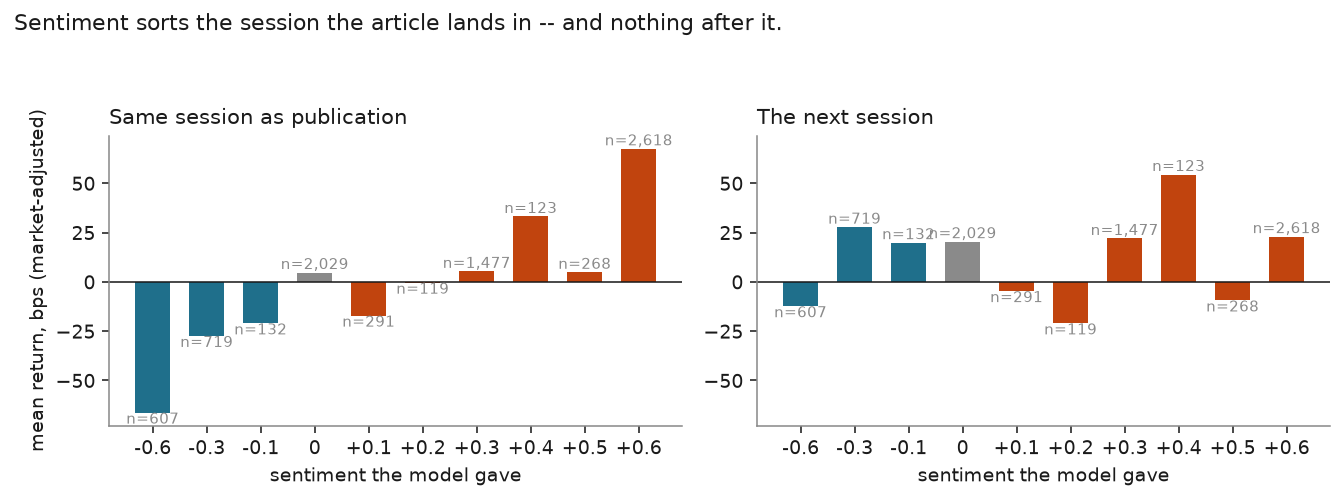
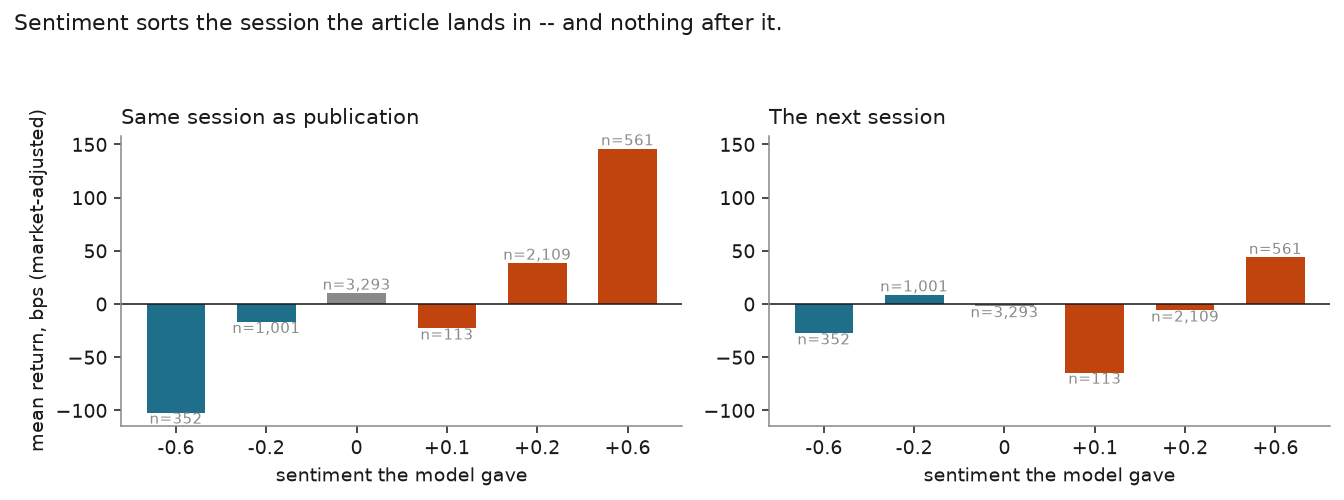
feat(scoring): event@5 pass -- both fixes landed and the magnitude signal improved 18%
87 days, 13,004 articles, 0.27% invalid, 11 transient Ollama errors, 15.4h.

Both v5 fixes worked. Sentiment came back from a collapsed scale (69.5% neutral, 4
distinct values) to a rankable one (46.3%, 6). Materiality went from effectively
two populated levels to three: none/minor/meaningful/major ran 24.9/66.7/8.3/0.1 in
v4 and 10.5/54.2/34.8/0.5 in v5.

The signal improved on every horizon, per-day rank correlation vs |market-adjusted
return|, all monotone 1.0:

  same session   0.1163 -> 0.1633   t  9.33 -> 11.00
  next session   0.0839 -> 0.0987   t  6.90 ->  8.49
  one week       0.0374 -> 0.0501   t  2.84 ->  4.52

+18% forward, and the signal now reaches a week. The free article-count baseline
moved slightly the other way (0.0383 -> 0.0354) on the same articles, days and
returns, which is the control that matters: the gain is in the model's judgement,
not the data or the harness. This retires the sec 16 worry that tuning the
distribution was optimising an unvalidated proxy -- it was not.

Also fixes cross_section, which still used the extremes-only statistic that sec 16
replaced inside magnitude(): the top and bottom buckets must appear on the same day,
and v5's sentiment paired them on 6 days of 58. It now reports the same per-day rank
correlation against the SIGNED return (a test pins that it is signed, since using
|return| would credit a config for predicting big moves as if it had predicted their
[…]

diff --git a/docs/make_figures.py b/docs/make_figures.py
@@ -96,10 +96,11 @@ def fig_anchoring(con) -> None:
 def fig_sentiment_horizons(con) -> None:
     """Sentiment reads the session it lands in; it does not predict the next one.
 
-    Uses the ``event@2`` panel because it has the widest sentiment spread of the
-    passes (22% neutral against v4's 65%), so the buckets are actually populated.
+    Uses the current ``event@5`` pass: 13,004 articles over 87 days, with the
+    seven-level sentiment scale that keeps the buckets populated (46% neutral,
+    against v4's 70% when the scale was cut to five levels).
     """
-    panel = pe.signal_panel(con, "news_scores_event_v2")
+    panel = pe.signal_panel(con, "news_scores_event_v5")
     j, _ = pe.attach_returns(con, panel)
     j = j.dropna(subset=["f0_ex", "f1_ex", "score"])
     j = j[j["score"].abs() <= 1.0]
@@ -144,7 +145,7 @@ def fig_sentiment_horizons(con) -> None:
 
 def fig_magnitude(con) -> None:
     """The one thing that does predict forward: how big the news is."""
-    panel = pe.signal_panel(con, "news_scores_event_v4")
+    panel = pe.signal_panel(con, "news_scores_event_v5")
     j, _ = pe.attach_returns(con, panel)
     j = j.dropna(subset=["f1_ex", "mat_max"])
 
@@ -183,7 +184,7 @@ def fig_magnitude(con) -> None:
     ax1.set_ylabel("|next session|, bps (market-adjusted)")
     ax1.set_title(
         "The model's judgement of how big the news is\n"
-        "rank corr 0.084, t = 6.9 over 59 trading days",
+        "rank corr 0.099, t = 8.5 over 58 trading days",
         loc="left",
     )
     for i, (v, c) in enumerate(zip(gm.values, nm.values)):
@@ -199,7 +200,7 @@ def fig_magnitude(con) -> None:
     ax2.set_xticklabels(gi.index, fontsize=9)
     ax2.set_xlabel("articles about that stock that day")
     ax2.set_title(
-        "The free baseline: just count the articles\nrank corr 0.038, t = 3.1",
+        "The free baseline: just count the articles\nrank corr 0.035, t = 2.8",
         loc="left",
     )
     for i, v in enumerate(gi.values):

diff --git a/scoring/panel_eval.py b/scoring/panel_eval.py
@@ -375,8 +375,15 @@ def cross_section(
         "n_days_rankable": int(d["date"].nunique()),
         "days_dropped_saturated": int(sizes[sizes >= min_names].shape[0] - d["date"].nunique()),
     }
+    # Same fix as magnitude(): the top-minus-bottom spread needs both extreme
+    # buckets present on a day, which a saturated score rarely manages -- v5's
+    # sentiment paired them on 6 days of 58. The per-day rank correlation between
+    # the score and the SIGNED return uses the whole cross-section every day.
+    stats.update(_daily_rank_corr(d, score_col, horizon, signed=True))
     if top in per_day.columns and bot in per_day.columns and top != bot:
-        stats.update(_t_stat(per_day[top] - per_day[bot], lags=_lags_for(horizon)))
+        ext = _t_stat(per_day[top] - per_day[bot], lags=_lags_for(horizon))
+        stats.update({f"ext_{k}": v for k, v in ext.items()})
+        stats.update(ext)  # keep the flat names the earlier tests and CLI read
         stats["monotone"] = _spearman_int(table["bucket"], table["mean_bps"])
     elif top == bot:
         stats["note"] = "score too saturated to rank: one bucket"
@@ -458,6 +465,7 @@ def _daily_rank_corr(
     *,
     min_rows: int = 20,
     min_levels: int = 2,
+    signed: bool = False,
 ) -> dict[str, Any]:
     """Mean per-day Spearman of ``field`` against ``|return|``, with a t over days.
 
@@ -475,7 +483,8 @@ def _daily_rank_corr(
     for _, g in d.groupby(key):
         if len(g) < min_rows or g[field].nunique() < min_levels:
             continue
-        c = _spearman_int(g[field], g[horizon].abs())
+        y = g[horizon] if signed else g[horizon].abs()
+        c = _spearman_int(g[field], y)
         if c == c:  # not NaN
             vals.append(c)
     if len(vals) < 5:

diff --git a/tests/test_panel_eval.py b/tests/test_panel_eval.py
@@ -319,3 +319,29 @@ def test_cross_section_uses_the_buckets_that_materialised_not_the_ones_requested
     assert stats["buckets_realised"] < 5  # fewer buckets than requested
     assert stats.get("n_days", 0) > 0  # ...but a verdict is still produced
     assert stats["mean_bps"] > 0 and stats["p"] < 0.05
+
+
+def test_cross_section_rank_correlation_is_signed_not_absolute() -> None:
+    """Direction asks which way, so its per-day correlation must run against the
+    SIGNED return -- using |return| would score a config that predicts big moves
+    as if it had predicted their direction."""
+    n_days, n_names = 60, 40
+    rows = []
+    for d in range(n_days):
+        for i in range(n_names):
+            score = (i % 7) - 3  # -3..3, seven distinct values
+            rows.append(
+                {
+                    "date": pd.Timestamp("2024-01-01") + pd.Timedelta(days=d),
+                    "symbol": f"S{i}.US",
+                    "score": score,
+                    # return tracks the SIGN of the score, magnitude constant
+                    "f1_ex": (0.01 if score > 0 else -0.01) + _jitter(d, i),
+                }
+            )
+    _, stats = pe.cross_section(
+        pd.DataFrame(rows), horizon="f1_ex", score_col="score", n_buckets=5
+    )
+    # signed correlation finds it; an absolute one would see no ordering at all
+    assert stats["corr_mean"] > 0.5 and stats["corr_p"] < 0.01
+    assert stats["corr_n_days"] == n_days

diff --git a/README.md b/README.md
@@ -175,12 +175,13 @@ monotonically. On the **next** session the ordering is gone.
 
 ![Sentiment sorts the same session but not the next one](docs/img/sentiment_horizons.png)
 
-That contrast is the whole story, and it has an unglamorous explanation: much of
-what the model "predicts" is a move the article itself already reports
-("shares fell 8 % after…"). Confirmed three independent ways — per-article edge
-over 803 committed rows (p = 0.78), a vendor-signal quintile long-short over
-**2,564 trading days** (t = 1.27), and our own over 11 days (t = 1.54). Every
-significant direction number is contemporaneous.
+Put as one number, over 58 trading days: sentiment's rank correlation with the
+**same** session's return is 0.10 (t = 6.3); with the **next** session's it is
+−0.002 (t = −0.11, p = 0.92). It has an unglamorous explanation — much of what the
+model "predicts" is a move the article itself already reports ("shares fell 8 %
+after…"). Confirmed independently on a vendor-signal quintile long-short over
+**2,564 trading days** (t = 1.27) and a per-article edge over 803 committed rows
+(p = 0.78). Every significant direction number is contemporaneous.
 
 This is roughly what an efficient market should look like. Public news sentiment
 against next-day returns is one of the most competed-away signals there is; finding
@@ -196,14 +197,16 @@ how many articles a stock drew that day — is nearly flat over the same rows.
 
 | signal | rank corr with \|next-session move\| | t (over trading days) |
 |---|---|---|
-| model's materiality judgement | **0.084** | **6.9** |
-| article count (free, no model) | 0.038 | 3.1 |
+| model's materiality judgement | **0.099** | **8.5** |
+| article count (free, no model) | 0.035 | 2.8 |
 
-Measured over 59 trading days, market-adjusted, with a per-day rank correlation and
+Measured over 58 trading days, market-adjusted, with a per-day rank correlation and
 a Newey–West correction for overlapping windows. It first appeared on 15 days
-(t = 6.1) and replicated on a 4× larger sample. Article counting does win the
-*same* session — attention tracks today's move, t = 15.3 over 2,215 days — but has
-nothing forward.
+(t = 6.1), replicated on a 4× larger sample (t = 6.9), and improved again when the
+schema was tuned to spread the scale (t = 8.5) — while the free baseline stayed
+flat throughout, which is the control that says the gain is in the model's
+judgement and not in the data. Article counting does win the *same* session —
+attention tracks today's move, t = 15.3 over 2,215 days — but has nothing forward.
 
 So the deliverable is an **event-driven magnitude / volatility feature**, not an
 alpha signal: useful for position sizing, risk, and options screens.
@@ -228,11 +231,17 @@ behaviour — 428 tests in total.
 
 ### Limits
 
-One provider, one price venue per name, ~5 years of news and a 59-day scored
-window. Returns are close-to-close and market-adjusted by an exchange median, with
+One provider, one price venue per name, ~5 years of news and an 87-day scored
+window (58 trading days with usable forward returns). Returns are close-to-close and market-adjusted by an exchange median, with
 no transaction costs, borrow, or liquidity screen. Correlations of 0.08 are real
 but small. **None of this is investment advice**, and it is not a backtest — it is a
 measurement of whether a feature carries information.
+
+One caveat we could not fix: the top impact level (`major`) lands on well under 1 %
+of articles no matter how the prompt is worded — three attempts moved it between
+0.1 % and 1.5 %. The correlations above hold regardless, because they use every
+level, but a strategy that trades only the top bucket would be working with a
+handful of names per day.
 
 The full working record, including the dead ends, is in
 [`eodhd/NEWS_SCORING_DESIGN.md`](eodhd/NEWS_SCORING_DESIGN.md).

diff --git a/eodhd/NEWS_SCORING_DESIGN.md b/eodhd/NEWS_SCORING_DESIGN.md
@@ -797,3 +797,75 @@ numbers are bucket edges rather than point values.
 Direction, for completeness, remains dead: contemporaneous `f0_ex` +53 bps
 (t = 1.98) and forward horizons negative and marginal (f5_ex −107 bps, t = −2.32),
 none surviving correction across the four horizons tested.
+
+## 17. `event@5`: both fixes landed, and the signal improved 18 %
+
+87 days, 13,004 articles, 35 invalid (0.27 %), **11 errors**, 15.4 h. The errors
+were transient Ollama failures (model unload/reload), 10 of them on one day — not
+data or schema problems, and re-runnable since the runner skips rows already `ok`.
+
+### Distributions, full passes, same model and sampling
+
+| | v4 | v5 |
+|---|---|---|
+| `none` / `minor` / `meaningful` / `major` | 24.9 / 66.7 / 8.3 / **0.1** | 10.5 / 54.2 / **34.8** / **0.5** |
+| sentiment neutral | 69.5 % | **46.3 %** |
+| distinct sentiment values | 4 | **6** |
+| `horizon` answered | 100 % | 100 % |
+
+Both intended fixes landed. Sentiment came back from a scale that had collapsed
+(70 % neutral, 4 distinct values) to a rankable one. Materiality went from
+effectively two populated levels to three.
+
+### The signal improved on every horizon
+
+Per-day rank correlation against `|market-adjusted return|`:
+
+| horizon | v4 corr | v5 corr | v4 t | v5 t | monotone |
+|---|---|---|---|---|---|
+| `f0_ex` same session | 0.1163 | **0.1633** | 9.33 | **11.00** | 1.0 |
+| `f1_ex` next session | 0.0839 | **0.0987** | 6.90 | **8.49** | 1.0 |
+| `f5_ex` one week | 0.0374 | **0.0501** | 2.84 | **4.52** | 1.0 |
+| *free baseline (article count), f1_ex* | *0.0383* | *0.0354* | *3.14* | *2.84* | — |
+
+**+18 % on the forward horizon, and the signal now reaches a week** (f5 t went 2.84
+→ 4.52). The free baseline moved slightly the *other* way, which is the control
+that matters: the same articles, the same days, the same returns — so the gain is
+in the model's judgement, not in the data or the harness. The model-to-baseline
+ratio went from 2.2× to 2.8×.
+
+This also retires the worry recorded in §16 that tuning the distribution was
+optimising an unvalidated proxy. It was not: spreading materiality across three
+populated levels instead of two improved the measured correlation.
+
+### Direction, measured cleanly at last
+
+`cross_section` still used the extremes-only statistic that §16 replaced inside
+`magnitude()` — the top and bottom buckets have to appear on the same day, and v5's
+sentiment paired them on **6 days of 58**. It now reports the same per-day rank
+correlation, against the *signed* return:
+
+| schema | same session | next session |
+|---|---|---|
+| v4 | 0.0904 (t = 5.84) | −0.0212 (t = −1.30) |
+| **v5** | **0.1009 (t = 6.27)** | **−0.0016 (t = −0.11, p = 0.92)** |
+
+That is the sharpest statement of the direction result in this whole record:
+sentiment correlates **0.10 with the session it lands in and 0.00 with the next
+one**, over 58 trading days.
+
+### What did not work
+
+`major` remains rare: 0.1 % → 0.5 %. Three wordings across v4 and v5 moved it
+between 0.1 % and 1.5 %, and the differences are within noise at the sample sizes
+that measured them. The conclusion from §16 stands and is now firmer — **the
+anchoring effect is asymmetric**. A stated base rate reliably pushes answers down
+(`mat_low` ran 0.59 → 0.78 → 0.89 across v2/v3/v4 on the same instruction) but
+saying "this is NOT a rare-exception label" does not push them up. The model has a
+floor on claiming large price impact from text alone that prompt wording does not
+move.
+
+It does not block anything: the correlation uses every level, so the field works
+regardless. It does mean a strategy trading only the top bucket would have a
+handful of names per day, which is recorded as a limit in the README rather than
+chased with a fourth wording.
